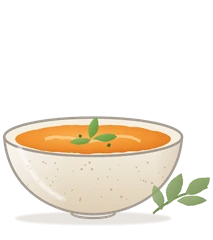
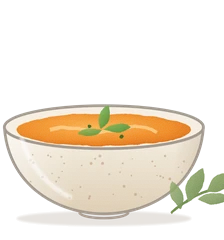
wip polévka

diff --git a/dashboard/lib/eshop/homeNav.ts b/dashboard/lib/eshop/homeNav.ts
@@ -17,7 +17,7 @@ export type HomeCategory = {
 };
 
 export const HOME_CATEGORIES: HomeCategory[] = [
-  { slug: "polevky", menuLabel: "Čerstvé polévky", stripLabel: "Čerstvé polévky", icon: "/eshop/hero/ikona-polevky-2026-11.webp", iconSize: [213, 240] },
+  { slug: "polevky", menuLabel: "Čerstvé polévky", stripLabel: "Čerstvé polévky", icon: "/eshop/hero/ikona-polevky-2026-11.webp", iconSize: [224, 240] },
   { slug: "sirupy", menuLabel: "Bylinné sirupy", stripLabel: "Bylinné sirupy", icon: "/eshop/hero/ikona-sirupy-2026-11.webp", iconSize: [147, 240] },
   { slug: "caje", menuLabel: "Čaje", stripLabel: "Čaje", icon: "/eshop/hero/ikona-caje-2026-11.webp", iconSize: [198, 240], group: "napoje" },
   {
